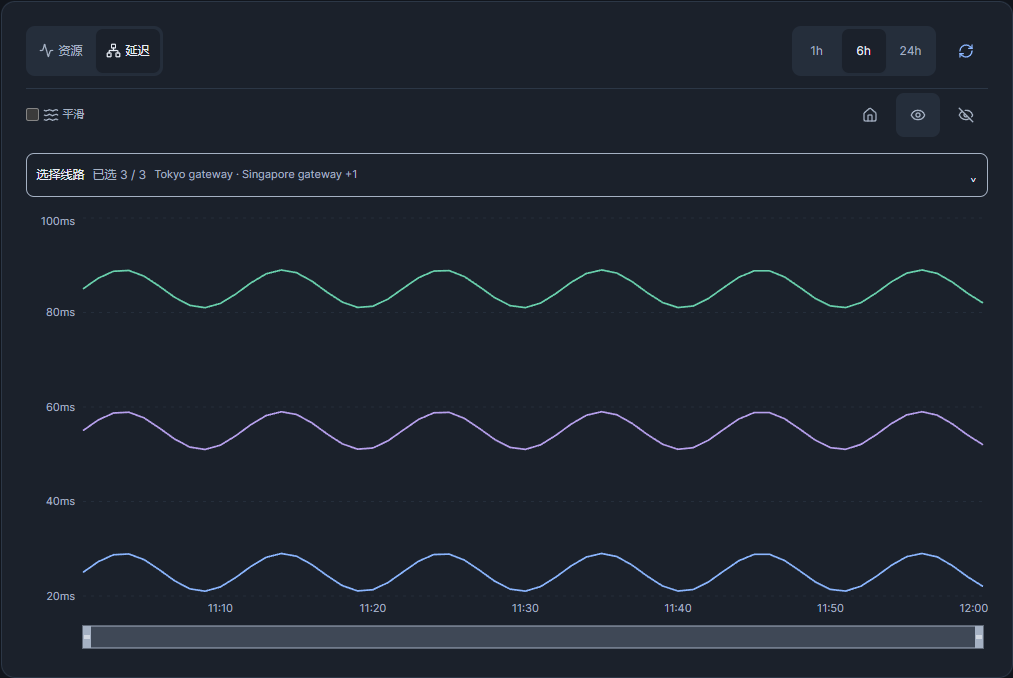
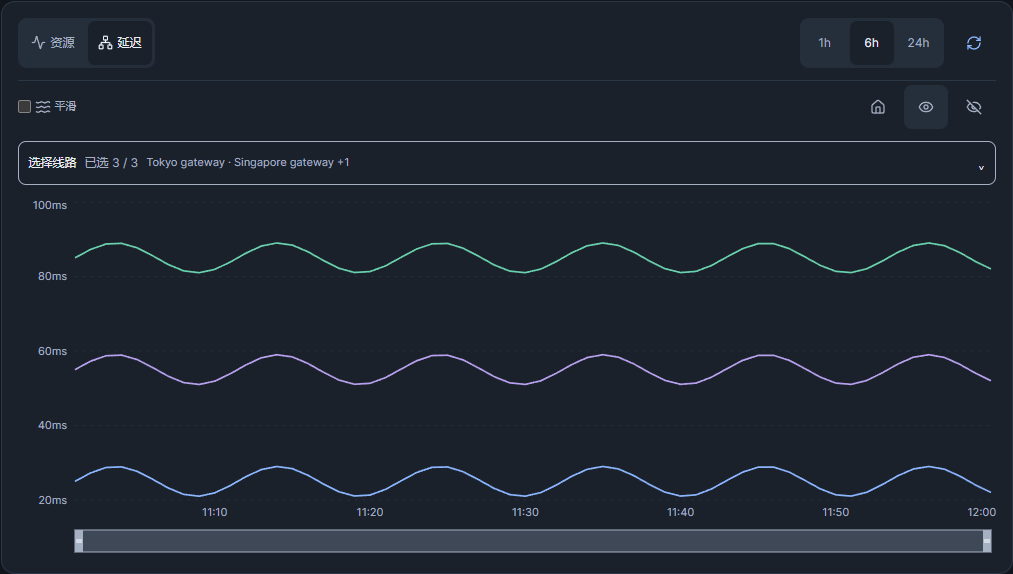
Release v0.0.18: refine detail proportions and chart presentation

diff --git a/src/components/NodeDetail.tsx b/src/components/NodeDetail.tsx
@@ -11,7 +11,7 @@ import { tr, locale } from '../lib/i18n.ts'
 import { useEffect, useMemo, useState, useRef } from "react";
 import { median } from "d3-array";
 import { Area, Brush, CartesianGrid, ComposedChart, Line, ResponsiveContainer, Tooltip, XAxis, YAxis, } from "recharts";
-import { Skeleton } from "@/components/ui/skeleton";
+import {HistoryState} from "./HistoryState";
 import { api, type Node } from "@/lib/api";
 import { clockFor, timeTicks, } from "@/lib/format";
 type Point = {
@@ -201,7 +201,7 @@ export function NodeDetail({ node, probe = "auto", nodes, onSwitch, detailInfoMo
     const visibleIds = selectedProbes ?? (defaultProbe === undefined ? [] : [defaultProbe]);
     const shownProbes = pingSeries.filter(s=>visibleIds.includes(s.id));
     // The same probe ID retains its colour when the time window/catalog changes.
-    const style = (id:number) => PALETTE[(id-1) % PALETTE.length];
+    const style = (id:number) => ({...PALETTE[(id-1) % PALETTE.length],dash:[undefined,"6 3","2 3","8 3 2 3"][Math.floor((id-1)/PALETTE.length)%4]});
     // The hub stamps every sample with its bucket rather than the second the probe
     // finished, so probes reporting at the bucket's rate share rows instead of each
     // contributing its own: a day of four probes is 717 rows rather than 2,868. A
@@ -261,7 +261,7 @@ export function NodeDetail({ node, probe = "auto", nodes, onSwitch, detailInfoMo
       {eventStart>0&&<p className="event-context">{tr('告警时段：{0} — {1}',new Date(eventStart).toLocaleString(locale()),new Date(eventEnd).toLocaleString(locale()))}{age>168||hours<age?<span>{tr('当前历史范围无法覆盖完整告警时段。')}</span>:data&&!(data.metrics??[]).some(p=>p.ts*1000>=eventStart&&p.ts*1000<=eventEnd)?<span>{tr('此告警时段没有返回历史样本。')}</span>:null}</p>}
       {failed && <div className="history-notice" role="alert"><span>{data && (data.metrics?.length || data.ping?.length)?tr("更新失败，保留上次历史记录。"):tr("读取历史数据失败：")}{failed}</span><button disabled={loading} onClick={refresh}>{tr("重试")}</button></div>}
       <div className="detail-history-body" data-history={tab}>
-      {!data ? (<div className="history-loading" aria-label={tr("正在读取历史数据")} aria-busy="true"><Skeleton className="h-40 w-full"/></div>) : failed && !data.metrics?.length && !data.ping?.length ? (<p className="history-empty">{tr("暂无可用历史数据")}</p>) : tab === "latency" ? (pingSeries.length === 0 ? (<p className="py-8 text-center text-sm text-muted-foreground">{tr("这段时间没有延迟数据")}</p>) : (
+      {!data ? (<HistoryState loading message={tr("正在读取历史数据")}/>) : failed && !data.metrics?.length && !data.ping?.length ? (<HistoryState failed message={tr("暂无可用历史数据")}/>) : tab === "latency" ? (pingSeries.length === 0 ? (<HistoryState message={tr("这段时间没有延迟数据")}/>) : (
         <div className="latency-view">
             <details ref={legend} className="detail-probe-legend" onToggle={e=>{if(e.currentTarget.open){setRouteQuery('');setRouteOrder([...visibleIds])}}} onKeyDown={e=>{if(e.key==='Escape'){e.currentTarget.open=false;e.currentTarget.querySelector('summary')?.focus()}}}>
               <summary>{tr("选择线路")}<span>{tr("已选 {0} / {1}",shownProbes.length,pingSeries.length)}</span><small className="selected-route-summary" title={shownProbes.map(s=>s.name).join(' · ')}>{shownProbes.length?shownProbes.slice(0,2).map(s=>s.name).join(' · '):tr("没有选中任何探测")}{shownProbes.length>2?` +${shownProbes.length-2}`:''}</small></summary>
@@ -269,7 +269,7 @@ export function NodeDetail({ node, probe = "auto", nodes, onSwitch, detailInfoMo
               <div className="probe-options">{pingSeries.length>6&&<label className="route-search"><span>{tr("搜索线路")}</span><input aria-label={tr("搜索线路")} placeholder={tr("按名称搜索")} value={routeQuery} onChange={e=>setRouteQuery(e.target.value)}/></label>}{!pingSeries.some(s=>s.name.toLocaleLowerCase().includes(routeQuery.trim().toLocaleLowerCase()))&&<p>{tr("没有匹配的线路")}</p>}{[...pingSeries].filter(s=>s.name.toLocaleLowerCase().includes(routeQuery.trim().toLocaleLowerCase())).sort((a,b)=>Number(routeOrder.includes(b.id))-Number(routeOrder.includes(a.id))).map(s=>{
                 const shown=visibleIds.includes(s.id), latest=s.points.at(-1);
                 return <button key={s.id} aria-label={s.name} title={tr("丢包统计范围：{0} 小时",hours)} aria-pressed={shown} onMouseEnter={()=>setHighlightProbe(s.id)} onMouseLeave={()=>setHighlightProbe(null)} onFocus={()=>setHighlightProbe(s.id)} onBlur={()=>setHighlightProbe(null)} onClick={()=>setSelectedProbes(shown ? visibleIds.filter(id=>id!==s.id) : [...visibleIds,s.id])}>
-                  <svg width="16" height="6" aria-hidden="true"><line x1="0" y1="3" x2="16" y2="3" stroke={style(s.id).stroke} strokeWidth="2"/></svg>
+                  <svg width="16" height="6" aria-hidden="true"><line x1="0" y1="3" x2="16" y2="3" stroke={style(s.id).stroke} strokeDasharray={style(s.id).dash} strokeWidth="2"/></svg>
                   <span className="probe-label">{s.name}</span>
                   <b style={{color:style(s.id).stroke}}>{!latest ? tr("暂无探测记录") : latest.latency === null ? tr("超时") : `${Math.round(latest.latency)} ms`}</b>
                   <span title={tr("丢包统计范围：{0} 小时",hours)} aria-label={tr("丢")}>{tr("丢包")} {s.loss===null || !latest ? '—' : `${s.loss.toFixed(1)}%`}</span>{latest && Date.now()/1000-latest.ts>7200 && <span className="ping-stale">{tr("较旧记录")}</span>}
@@ -278,7 +278,7 @@ export function NodeDetail({ node, probe = "auto", nodes, onSwitch, detailInfoMo
             </details>
 
             <div className="detail-chart-frame text-muted-foreground" ref={tooltipFrame} onClickCapture={tooltipClick}>
-              {shownProbes.length === 0 ? (<p className="py-8 text-center text-sm">{(selectedProbes?.length || selectedProbes === null && choice.probe !== "auto") ? tr("无该线路记录") : tr("没有选中任何探测")}</p>) : !shownProbes.some(s=>s.points.length) ? <p className="py-8 text-center text-sm">{tr("这段时间没有延迟数据")}</p> : (<ResponsiveContainer>
+              {shownProbes.length === 0 ? (<HistoryState message={(selectedProbes?.length || selectedProbes === null && choice.probe !== "auto") ? tr("无该线路记录") : tr("没有选中任何探测")}/>) : !shownProbes.some(s=>s.points.length) ? <HistoryState message={tr("这段时间没有延迟数据")}/> : (<ResponsiveContainer>
                   <ComposedChart data={pingRows}>
                     <CartesianGrid strokeDasharray="3 5" stroke="var(--border)" vertical={false}/>
                     <XAxis {...timeAxis(pingRows, Math.min(zoom?.[0] ?? 0, pingRows.length - 1), Math.min(zoom?.[1] ?? pingRows.length - 1, pingRows.length - 1))}/>
@@ -291,7 +291,7 @@ export function NodeDetail({ node, probe = "auto", nodes, onSwitch, detailInfoMo
             // `dataKey` is `t7`/`s7`; the loss sits at `l7`.
             formatter={(v, name, item) => {
                     const loss = item?.payload?.[`l${String(item.dataKey).slice(1)}`];
-                    return [`${Number(v)} ms${loss == null ? ` · ${tr("丢")} —` : loss > 0 ? tr(" \u00B7 丢 {0}%", loss) : ""}`, name];
+                    return [`${Number.isFinite(Number(v))?Number(Number(v).toFixed(1)):"—"} ms${loss == null ? ` · ${tr("丢")} —` : loss > 0 ? tr(" \u00B7 丢 {0}%", loss) : ""}`, name];
                 }} contentStyle={{ fontSize: 12 }}/>
                     {/* Behind the line, the range that bucket's answers
                     spanned -- Smokeping's "smoke". At the day window a
@@ -304,14 +304,14 @@ export function NodeDetail({ node, probe = "auto", nodes, onSwitch, detailInfoMo
                     axis from 165-385 out to 140-420. */}
                     {shownProbes.length === 1 &&
                     shownProbes.map((s) => (<Area key={`band${s.id}`} dataKey={`b${s.id}`} stroke="none" fill={style(s.id).stroke} fillOpacity={0.10} isAnimationActive={false} tooltipType="none" legendType="none" connectNulls={false}/>))}
-                    {shownProbes.map((s) => (<Line key={s.id} dataKey={`${smooth ? "s" : "t"}${s.id}`} name={s.name} stroke={style(s.id).stroke} {...SERIES} strokeOpacity={highlightProbe!==null && visibleIds.includes(highlightProbe) && highlightProbe!==s.id ? 0.2 : 1} onMouseEnter={()=>{if(!compact)setHighlightProbe(s.id)}} onMouseLeave={()=>{if(!compact)setHighlightProbe(null)}} connectNulls={false}/>))}
+                    {shownProbes.map((s) => (<Line key={s.id} dataKey={`${smooth ? "s" : "t"}${s.id}`} name={s.name} stroke={style(s.id).stroke} strokeDasharray={style(s.id).dash} {...SERIES} strokeOpacity={highlightProbe!==null && visibleIds.includes(highlightProbe) && highlightProbe!==s.id ? 0.2 : 1} onMouseEnter={()=>{if(!compact)setHighlightProbe(s.id)}} onMouseLeave={()=>{if(!compact)setHighlightProbe(null)}} connectNulls={false}/>))}
                     {/* Drag either handle to zoom into a stretch of the trend. */}
                     <Brush dataKey="ts" height={22} travellerWidth={8} tickFormatter={clockFor(hours)} fill="var(--muted)" className="fill-muted" stroke="var(--color-muted-foreground)" onChange={(r) => setZoom([r.startIndex ?? 0, r.endIndex ?? pingRows.length - 1])}/>
                   </ComposedChart>
                 </ResponsiveContainer>)}
             </div>
 
-          </div>)) : (data.metrics ?? []).length === 0 ? (<p className="py-8 text-center text-sm text-muted-foreground">{tr("这段时间没有历史数据")}</p>) : (<ResourceHistory compact={compact} rows={metricRows} node={node} hours={hours} metric={resourceMetric} onMetric={setResourceMetric}/>)}
+          </div>)) : (data.metrics ?? []).length === 0 ? (<HistoryState message={tr("这段时间没有历史数据")}/>) : (<ResourceHistory compact={compact} rows={metricRows} node={node} hours={hours} metric={resourceMetric} onMetric={setResourceMetric}/>)}
       </div></section>
 
       <DetailFacts node={node} compact={compact} mode={detailInfoMode} onMode={onDetailInfoMode}/>

diff --git a/tests/detail-proportion.spec.ts b/tests/detail-proportion.spec.ts
@@ -1,0 +1,45 @@
+import {test,expect} from '@playwright/test'
+import {nodes,metrics} from '../scripts/fixtures.mjs'
+async function setup(page:any,count=3){
+ await page.route('**/api/nodes',(r:any)=>r.fulfill({json:{nodes:[{...nodes()[0],agent_version:'1.2.3',remark:'国际线路;Production',ipv6:'2001:db8:1234:5678:abcd:1234:5678:abcd'}]}}))
+ await page.route('**/api/nodes/*/metrics?*',(r:any)=>{const d=metrics();return r.fulfill({json:{...d,probes:Object.fromEntries(Array.from({length:count},(_,i)=>[i+1,`Tokyo 线路 ${i+1}`])),ping:d.ping.flatMap(p=>Array.from({length:count},(_,i)=>({...p,task_id:i+1,latency:i===0?0:i===1?12.34567:p.latency+i*10})))}})})
+ await page.goto('/node/1');await expect(page.locator('.recharts-area-curve')).toBeVisible()
+}
+for(const width of [899,900,1024,1199,1200,1440,1920])test(`detail proportions and billing flow at ${width}`,async({page})=>{
+ await page.setViewportSize({width,height:900});await setup(page)
+ if(width<900)await page.locator('.detail-facts-toggle').click()
+ const groups=page.locator('.detail-fact-groups'),sections=groups.locator('section'),hardware=(await sections.nth(0).boundingBox())!,network=(await sections.nth(1).boundingBox())!,billing=(await sections.nth(2).boundingBox())!
+ if(width>=1200){expect(hardware.width).toBeGreaterThan(network.width);expect(network.width).toBeGreaterThan(billing.width);expect(billing.height).toBeLessThan(hardware.height*.7);expect(Math.abs(hardware.y-billing.y)).toBeLessThanOrEqual(1)}
+ if(width>=900&&width<1200){expect(billing.y).toBeGreaterThanOrEqual(Math.max(hardware.y+hardware.height,network.y+network.height));expect(Math.abs(billing.width-(await groups.boundingBox())!.width)).toBeLessThanOrEqual(1)}
+ if(width===1440){const first=(await sections.first().locator("dl>div").first().boundingBox())!;expect(first.y+first.height).toBeLessThanOrEqual(900);expect((await page.locator('.detail-chart-frame').boundingBox())!.height).toBeGreaterThanOrEqual(360)}
+ expect(await page.evaluate(()=>document.documentElement.scrollWidth<=innerWidth)).toBeTruthy()
+})
+for(const width of [320,390])test(`tooltip header, precision and scroll at ${width}`,async({page})=>{
+ await page.setViewportSize({width,height:844});await setup(page,20);await page.getByRole('button',{name:'网络延迟',exact:true}).click();await page.getByRole('button',{name:'显示全部线路',exact:true}).click()
+ const frame=page.locator('.detail-chart-frame');await frame.scrollIntoViewIfNeeded();await frame.click({position:{x:150,y:110}})
+ const tip=frame.locator('.chart-tooltip'),body=tip.locator('.recharts-default-tooltip'),close=tip.getByRole('button',{name:'关闭图表提示',exact:true});await expect(tip).toBeVisible()
+ const first=body.locator('.recharts-tooltip-item').filter({has:page.locator('.recharts-tooltip-item-name',{hasText:/Tokyo 线路 1$/})});await expect(first).toContainText('0 ms')
+ const second=body.locator('.recharts-tooltip-item').filter({has:page.locator('.recharts-tooltip-item-name',{hasText:/Tokyo 线路 2$/})});await expect(second).toContainText('12.3 ms');await expect(second).not.toContainText('34567')
+ const heading=(await tip.locator('.chart-tooltip-heading').boundingBox())!,button=(await close.boundingBox())!;expect(button.y).toBeGreaterThanOrEqual(heading.y);expect(button.y+button.height).toBeLessThanOrEqual(heading.y+heading.height);expect(button.height).toBeGreaterThanOrEqual(44)
+ await body.evaluate(el=>el.scrollTop=el.scrollHeight);expect((await close.boundingBox())!.y).toBe(button.y);await expect(close).toBeVisible()
+ const b=(await tip.boundingBox())!;expect(b.x).toBeGreaterThanOrEqual(0);expect(b.x+b.width).toBeLessThanOrEqual(width);const canvas=(await frame.boundingBox())!;expect(b.x+b.width).toBeLessThanOrEqual(canvas.x+canvas.width);expect(button.x+button.width).toBeLessThanOrEqual(canvas.x+canvas.width)
+ await close.click();await expect(frame.locator('.recharts-tooltip-wrapper')).toBeHidden()
+})
+test('route line and legend styles remain stable through range and selection changes',async({page})=>{
+ await page.setViewportSize({width:1440,height:900});await setup(page,20);await page.getByRole('button',{name:'网络延迟',exact:true}).click();await page.getByRole('button',{name:'显示全部线路',exact:true}).click()
+ const lines=page.locator('.recharts-line-curve');await expect(lines).toHaveCount(20)
+ const styles=()=>lines.evaluateAll(elements=>elements.map(el=>[el.getAttribute('name'),el.getAttribute('stroke'),el.getAttribute('stroke-dasharray')]))
+ const before=await styles();expect(new Set(before.map(v=>v.slice(1).join('|'))).size).toBe(20)
+ await page.locator('.detail-probe-legend>summary').click()
+ for(const [name,color,dash] of before){const line=page.locator('.probe-options').getByRole('button',{name:name!,exact:true}).locator('svg line');expect(await line.getAttribute('stroke')).toBe(color);expect(await line.getAttribute('stroke-dasharray')).toBe(dash)}
+ await page.keyboard.press('Escape');await page.getByRole('button',{name:'24 小时',exact:true}).click();await expect(lines).toHaveCount(20);expect(await styles()).toEqual(before)
+ await page.getByRole('button',{name:'隐藏全部线路',exact:true}).click();await page.getByRole('button',{name:'显示全部线路',exact:true}).click();await expect(lines).toHaveCount(20);expect(await styles()).toEqual(before)
+})
+for(const width of [390,1440])test(`loading empty and failure share the chart canvas at ${width}`,async({page})=>{
+ await page.setViewportSize({width,height:900});await setup(page)
+ const body=page.locator('.detail-history-body');const height=(await body.boundingBox())!.height;let pending:any
+ await page.unroute('**/api/nodes/*/metrics?*');await page.route('**/api/nodes/*/metrics?*',r=>{pending=r})
+ await page.getByRole('button',{name:'24 小时',exact:true}).click();await expect(page.getByLabel('正在读取历史数据')).toBeVisible();expect(Math.abs((await body.boundingBox())!.height-height)).toBeLessThanOrEqual(2);await expect(body.locator('.history-state svg')).toBeVisible()
+ await pending.fulfill({json:{metrics:[],ping:[],probes:{}}});await expect(body).toContainText('这段时间没有历史数据');expect(Math.abs((await body.boundingBox())!.height-height)).toBeLessThanOrEqual(2)
+ await page.getByRole('button',{name:'1 小时',exact:true}).click();await expect(page.getByLabel('正在读取历史数据')).toBeVisible();await pending.fulfill({status:503});await expect(page.locator('.history-notice')).toBeVisible();await expect(body).toContainText('暂无可用历史数据');expect(Math.abs((await body.boundingBox())!.height-height)).toBeLessThanOrEqual(2)
+})

diff --git a/src/styles/detail-reading.css b/src/styles/detail-reading.css
@@ -111,3 +111,40 @@
 @media(min-width:900px){.detail-facts>div {grid-template-columns:96px minmax(0,1fr)}}
 
 @media(max-width:899px){.detail-chart-frame[data-tooltip-open="false"] .recharts-tooltip-wrapper {visibility:hidden!important;pointer-events:none!important}}
+
+/* v0.0.18: lighter proportions and a consistent reading order. */
+main:has(>.node-detail)>.detail-navigation {margin-bottom:8px}
+.detail-identity {padding-top:0;padding-bottom:16px}
+@media(min-width:900px){.node-detail {--plot-height:360px}.detail-history {padding:20px}}
+@media(min-width:1200px){.detail-fact-groups {grid-template-columns:minmax(0,1.2fr) minmax(0,1.1fr) minmax(0,.8fr)}}
+.detail-fact-groups {align-items:start}
+@media(min-width:900px) and (max-width:1199px){
+ .detail-fact-groups>section:last-child {grid-column:1/-1;display:grid;grid-template-columns:120px minmax(0,1fr);align-items:start;gap:16px}
+ .detail-fact-groups>section:last-child h3 {margin:0}
+ .detail-fact-groups>section:last-child dl {grid-template-columns:repeat(2,minmax(0,1fr));gap:24px}
+}
+@media(max-width:899px){.detail-workspace {row-gap:12px}.detail-subtitle {margin-top:6px}.detail-meta-tags {margin-top:8px}.detail-identity {padding-bottom:12px}}
+.node-detail .chart-tooltip {width:280px;max-width:min(280px,calc(100cqw - 72px));border:1px solid var(--border);border-radius:10px;overflow:hidden;background:var(--card);color:var(--foreground);box-shadow:0 6px 24px #0002;padding:0}
+.chart-tooltip-heading {display:flex;align-items:center;justify-content:space-between;gap:8px;padding-left:12px;min-height:36px;border-bottom:1px solid var(--detail-line);color:var(--muted-foreground);font-size:11px}
+.chart-tooltip-heading>span {min-width:0;overflow-wrap:anywhere;padding:8px 8px 8px 0}
+.chart-tooltip .chart-tooltip-close {position:static;flex-shrink:0}
+.node-detail .chart-tooltip .recharts-default-tooltip {border:0!important;border-radius:0;box-shadow:none;max-width:none;max-height:calc(var(--plot-height) - 84px);padding:6px 12px!important}
+.chart-tooltip .recharts-tooltip-item {display:grid!important;grid-template-columns:minmax(0,1fr) minmax(0,1.2fr);gap:12px;padding:7px 0!important;align-items:start}
+.chart-tooltip .recharts-tooltip-item-name {min-width:0;overflow-wrap:anywhere}
+.chart-tooltip .recharts-tooltip-item-value {text-align:right;font-variant-numeric:tabular-nums;overflow-wrap:anywhere}
+.chart-tooltip .recharts-tooltip-item-separator,.chart-tooltip .recharts-tooltip-item-unit:empty {display:none}
+.detail-history-body>.history-state {height:var(--history-canvas);min-height:var(--history-canvas);display:grid;place-items:center;padding:24px}
+.detail-chart-frame>.history-state {height:100%;display:grid;place-items:center;padding:24px}
+.history-state>div {display:grid;justify-items:center;gap:12px;max-width:280px;text-align:center;color:var(--muted-foreground);font-size:12px;line-height:1.7}
+.history-state svg {opacity:.65}.history-state p {margin:0}
+
+main:has(>.node-detail) {padding-top:12px}
+main:has(>.node-detail)>.detail-navigation {margin-bottom:4px}
+.node-detail {--history-canvas:calc(var(--plot-height) + var(--chart-controls) + 12px)}
+.detail-identity {padding-bottom:12px}
+.detail-subtitle,.detail-meta-tags {margin-top:6px}
+.detail-history-body {padding-top:12px}
+.detail-resource-charts,.latency-view {gap:12px}
+@media(min-width:900px){.detail-history {padding:16px}}
+
+.detail-chart-frame {container-type:inline-size}

diff --git a/src/components/ChartTooltip.tsx b/src/components/ChartTooltip.tsx
@@ -12,5 +12,6 @@ export function useChartTooltip(resetKey:string,compact:boolean){
  return {frame,dismiss,onChartClick:(e:React.MouseEvent)=>{if(!(e.target as Element).closest('.chart-tooltip'))frame.current?.setAttribute('data-tooltip-open','true')}};
 }
 export function ChartTooltip(props:TooltipContentProps<TooltipValueType,string|number>&{dismiss:()=>void;compact:boolean}){
- return <div className="chart-tooltip">{props.compact&&<button className="chart-tooltip-close" aria-label={tr('关闭图表提示')} onClick={props.dismiss}><X size={16}/></button>}<DefaultTooltipContent {...props}/></div>
+ const time=props.labelFormatter?props.labelFormatter(props.label,props.payload):props.label;
+ return <div className="chart-tooltip"><div className="chart-tooltip-heading"><span>{time}</span>{props.compact&&<button className="chart-tooltip-close" aria-label={tr('关闭图表提示')} onClick={props.dismiss}><X size={16}/></button>}</div><DefaultTooltipContent {...props} labelStyle={{display:"none"}}/></div>
 }

diff --git a/src/components/HistoryState.tsx b/src/components/HistoryState.tsx
@@ -1,0 +1,5 @@
+import {ChartNoAxesCombined,LoaderCircle,CircleAlert} from 'lucide-react'
+export function HistoryState({message,loading=false,failed=false}:{message:string;loading?:boolean;failed?:boolean}){
+ const Icon=loading?LoaderCircle:failed?CircleAlert:ChartNoAxesCombined;
+ return <div className={`history-state ${loading?'history-loading':'history-empty'}`} aria-label={message} aria-busy={loading||undefined}><div><Icon size={22} aria-hidden="true"/><p>{message}</p></div></div>
+}

diff --git a/REVIEW-v0.0.18.md b/REVIEW-v0.0.18.md
@@ -1,0 +1,50 @@
+# v0.0.18 详情页比例与图表精修验收
+
+2026-09-21。基线 v0.0.17（91a431b）。用户授权实施、验收通过后直接发布。
+
+## 实施与取舍
+
+- 桌面绘图区从 440px 调整至 360px；减少详情顶部、图表边距与控件间距，保留文字大小与操作面积。左侧实时概况保持自然高度。
+- 1200px 起资料采用 1.2∶1.1∶0.8 列宽，硬件和网络得到更多空间，费用卡片不再被拉高；900–1199px 硬件、网络并排，费用位于完整底行。手机顺序与折叠偏好保留。
+- 提示框标题行包含时间和手机关闭按钮，表体为名称/数值两列，长名称换行；延迟最多一位小数，0 保留，缺失数据继续按既有逻辑处理。关闭按钮不随列表滚动。
+- 提示框根据所属绘图区宽度收缩。测试不仅检查屏幕边界，也检查绘图区裁切和关闭按钮完整可见。手机仍通过点击取点，桌面悬浮交互保留。
+- 线路 ID 固定映射到五色与四种线型，图例与曲线使用同一映射。组合有限，任意 20 个线路 ID 不保证都唯一；多线路辨识仍结合名称、选择和高亮，不仅靠颜色。
+- 手机缩减辅助行与区块间距。加载、空记录、首次失败共用 HistoryState，统一图标、居中方式与画布高度；刷新失败保留旧曲线和明确错误提示。
+- 不新增用户设置，不改变后端接口或已有偏好语义。
+
+## 验收结果
+
+| 项目 | 结果 |
+| --- | --- |
+| lint、业务测试、构建和打包 | 通过，425 处字面量翻译调用检查通过 |
+| Chrome 全量 | 122/122，包括新增 12 项比例与提示用例 |
+| Edge 重点回归 | 58/58，详情比例、布局、阅读、稳定性与导航 |
+| 布局矩阵 | 既有 320/390/430/720/899/900/1024/1440/1920px 双语、深浅色、四样式；新增 1199/1200px 边界 |
+| 首屏资料 | 1440×900、标准名称及两条备注下，硬件资料第一行完整进入首屏 |
+| 资料卡片 | 宽屏列宽递减、费用自然高度；中等屏幕费用整行；无横向溢出，既有长 CPU/IPv6/计费与复制回归通过 |
+| 提示框 | 320/390px 两类图表左中右取点、关闭、重新打开、范围切换；20 条列表内部滚动，按钮至少 44px |
+| 精度与裁切 | 0ms 保留、12.34567ms 显示为 12.3ms；标题与按钮同排、滚动后按钮位置不变，提示和按钮均在绘图区内 |
+| 线路样式 | ID 1–20 的颜色/线型组合、图例一致性、换范围和全部隐藏/恢复后的稳定性通过；既有 1/3/6/20 条交互回归通过 |
+| 异常状态 | 390/1440px 下正常、加载、空记录、首次失败主体高度差≤2px；既有重试、失败保留曲线和迟到响应测试通过 |
+| 手机与兼容 | 390×844 首屏工具栏、长内容展开、搜索多选、复制、返回位置、偏好保存、导入导出、首页地图与卡片通过 |
+
+上述为分层覆盖，不是所有尺寸、语言、数据状态的完整笛卡尔积。交互使用本地演示 API 与故障模拟；复制时效使用可控时钟。
+
+## 视觉证据
+
+- [桌面浅色详情](screenshots/detail-light.png)
+- [桌面深色详情](screenshots/v0.0.18/desktop-detail-dark.png)
+- [手机详情](screenshots/v0.0.18/mobile-detail-light.png)
+- [手机深色详情](screenshots/v0.0.18/mobile-detail-dark.png)
+- [手机图表提示](screenshots/v0.0.18/mobile-tooltip.png)
+- [多线路选择](screenshots/v0.0.18/routes-search.png)
+- [桌面前后对照](screenshots/v0.0.18/compare-desktop-detail.png)
+- [手机前后对照](screenshots/v0.0.18/compare-mobile-detail.png)
+
+scripts/capture-detail-proportion.mjs 使用固定演示数据生成对照；交互截图由 scripts/capture-detail-proportion-interactions.mjs 生成。README 的 12 张图片均来自 v0.0.18 构建；首页未变的图片重新截图后内容可能相同。历史验收图片保留在旧版本记录中，不出现在 README。
+
+## 发布与边界
+
+版本 0.0.18；短名 hex；在线更新地址 https://github.com/8bitNull/Monitor-Hex。附件 theme.tar.gz 与 theme.tar.gz.sha256。
+
+实体手机、iOS Safari、系统软键盘、动态地址栏和真实服务器部署未验证。桌面浏览器的手机视口测试不替代实体设备验收；此次发布不代表已部署到用户线上站点。

diff --git a/ACCEPTANCE.md b/ACCEPTANCE.md
@@ -1,10 +1,10 @@
-# Monitor HEX 0.0.17 检查说明
+# Monitor HEX 0.0.18 检查说明
 
 当前源码的检查入口如下。测试使用本地演示数据，不代表已完成真实服务器部署验证。
 
 ## 最近验证
 
-2026-09-21：v0.0.17 静态检查、业务测试、425 处字面量翻译检查与生产构建通过。Chrome 全量 110/110，Edge 详情布局、阅读、稳定性与导航 46/46。完整记录见 REVIEW-v0.0.17.md。
+2026-09-21：v0.0.18 静态检查、业务测试、425 处字面量翻译检查与生产构建通过。Chrome 全量 122/122，Edge 详情布局、阅读、稳定性与导航 58/58。完整记录见 REVIEW-v0.0.18.md。
 
 ## 自动检查
 
@@ -22,7 +22,9 @@ npm run test:e2e
 
 ## 浏览器检查范围
 
-110 项用例按功能组织：
+122 项用例按功能组织：
+
+- `detail-proportion.spec.ts`：布局边界、首屏资料、费用横栏、提示精度与裁切、线路样式稳定性、加载/空/失败画布。
 
 - `detail-balance.spec.ts`：桌面底栏、搜索阈值、选中语义、长名称、复制时效、提示关闭与线路列表滚动稳定性。
 
@@ -59,4 +61,4 @@ npm run test:e2e
 
 历史范围依赖后端实际保留的数据。高负载事件是浏览器本地记录，仅覆盖页面监测期间，不等同于服务端持续告警。线上数据与后端兼容性仍需部署后核对。
 
-手机测试采用浏览器视口模拟，未进行实体手机或 iOS Safari 验证。完整本版验收记录见 `REVIEW-v0.0.17.md`。
+手机测试采用浏览器视口模拟，未进行实体手机或 iOS Safari 验证。完整本版验收记录见 `REVIEW-v0.0.18.md`。

diff --git a/CHANGELOG.md b/CHANGELOG.md
@@ -1,5 +1,14 @@
 # Monitor HEX 当前版本
 
+## 0.0.18
+
+- 桌面绘图区调至 360px，缩减顶部及内部留白，让标准内容的资料首行进入 1440×900 首屏。
+- 宽屏设备资料按硬件、网络、费用约 1.2∶1.1∶0.8 分配宽度；中等屏幕费用改为紧凑横栏，各卡片自然高度。
+- 图表提示将时间和关闭按钮合并为标题行，名称与数值分列，延迟最多一位小数；提示根据绘图区宽度收缩，避免窄屏裁切。
+- 线路颜色结合有限虚实线组合，图例与曲线保持一致，范围切换和显隐不改变线路样式。
+- 手机减少区块与辅助信息间距，保留字体和 44px 操作区域；加载、空记录与失败画布统一图标、对齐和文案位置。
+- 无新增偏好字段；安装包、截图和完整验收见 REVIEW-v0.0.18.md。
+
 ## 0.0.17
 
 - 桌面设备资料移至完整底栏，按宽度显示两列或三列，手机继续保留自动折叠偏好。
